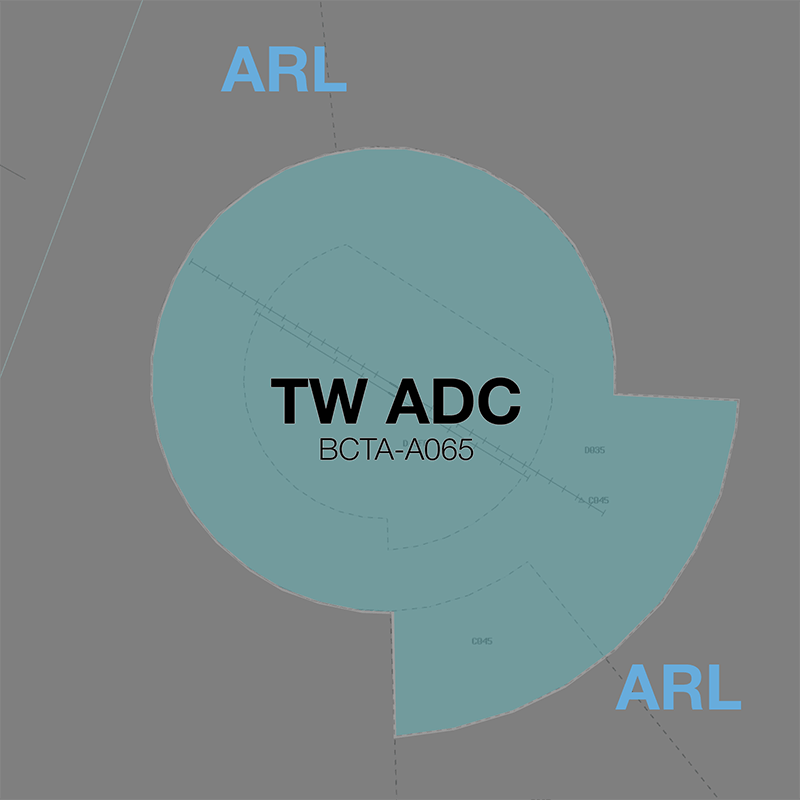
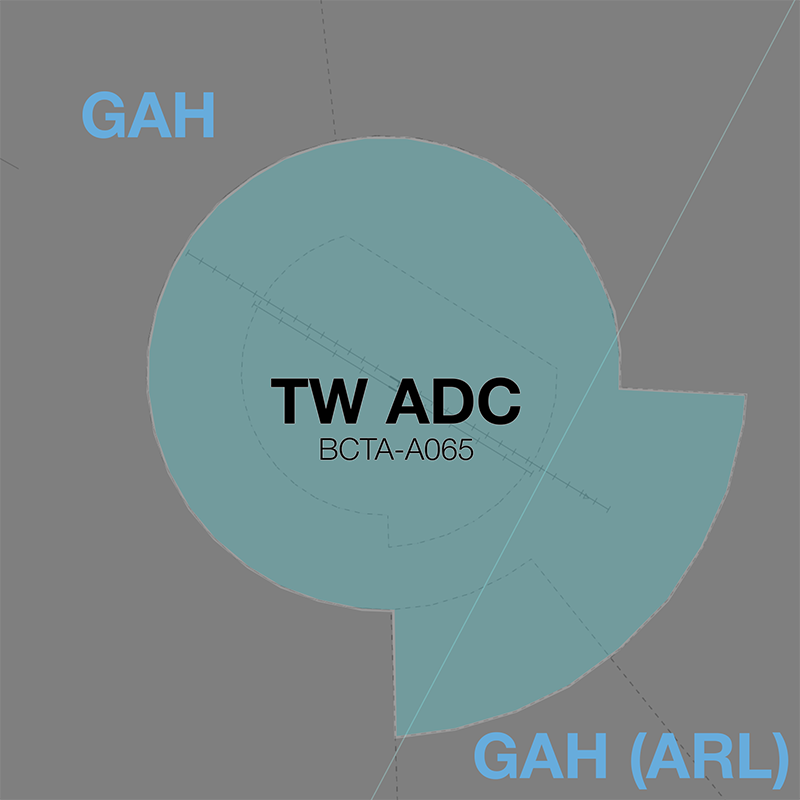
proc tower updates

diff --git a/docs/aerodromes/procedural/Tamworth.md b/docs/aerodromes/procedural/Tamworth.md
@@ -176,7 +176,7 @@ The [geographic feature separation standard](../../separation-standards/visual.m
 The **Oxley** and **New England** Highways are good references for this standard.
 
 ### Surveillance
-Surveillance coverage can be expected to be not available below `A034` in the TW CTR. Although TW ADC is **not permitted** to use surveillance for separation, ARL may assist by establishing surveillance separation standards via coordination.
+Surveillance coverage can be expected to be not available below `A034` in the TW CTR. Although TW ADC is **not permitted** to use surveillance for separation, GAH/ARL may assist by establishing surveillance separation standards via coordination.
 
 ## ATIS
 ### Runway Mode Formatting
@@ -193,25 +193,25 @@ When parallel runway operations are in use, the ATIS OPR INFO field shall includ
 
 ## Coordination
 ### Departures
-[Next](../../controller-skills/coordination.md#next) coordination is required from TW ADC to ARL for all aircraft **entering ARL CTA**.
+[Next](../../controller-skills/coordination.md#next) coordination is required from TW ADC to GAH/ARL for all aircraft **entering GAH/ARL CTA**.
 
-The Standard Assignable level from **TW ADC** to **ARL** is:
+The Standard Assignable level from **TW ADC** to **GAH/ARL** is:
 
 | Aircraft | Level |
 | ---- | ---- |
 | All | The lower of `A070` and `RFL` |
 
 ### Arrivals/Overfliers
-ARL will heads-up coordinate all arrivals/overfliers that are entering the TW CTR/CTA to TW ADC
+GAH/ARL will heads-up coordinate all arrivals/overfliers that are entering the TW CTR/CTA to TW ADC
 
 !!! phraseology
-    <span class="hotline">**ARL** -> **TW ADC**</span>: "Via MOR DCT for the VOR-A, FD272”  
-    <span class="hotline">**TW ADC** -> **ARL**</span>: "FD272, VOR-A"  
+    <span class="hotline">**GAH** -> **TW ADC**</span>: "Via MOR DCT for the VOR-A, FD272”  
+    <span class="hotline">**TW ADC** -> **GAH**</span>: "FD272, VOR-A"  
 
-The Standard Assignable level from ARL to TW ADC is `A080`, any other level must be prior coordinated.
+The Standard Assignable level from GAH/ARL to TW ADC is `A080`, any other level must be prior coordinated.
 
 #### ADC South Online
-When ADC South is online, ARL may not be familiar with which controller owns what airspace. Best practice is to receive the coordination no matter what, and if it was meant for the other ADC controller, relay the coordination to them internally.
+When ADC South is online, GAH/ARL may not be familiar with which controller owns what airspace. Best practice is to receive the coordination no matter what, and if it was meant for the other ADC controller, relay the coordination to them internally.
 
 ### TW ADC Internal
 TW ADC must heads-up coordinate **all aircraft** transiting from one ADC controller to the other.

diff --git a/docs/aerodromes/procedural/Coffs.md b/docs/aerodromes/procedural/Coffs.md
@@ -40,23 +40,23 @@ The **coastline** is a good reference for this standard. Due to high terrain clo
     **CFS ADC:** "RXA6418, cancel the offshore requirement, track for downwind runway 21, cleared visual approach"
 
 ## Surveillance
-Surveillance coverage can be expected to be not available below `A028` in the CFS CTR. Although CFS ADC is **not permitted** to use surveillance for separation, ARL(MNN) or INL may assist by establishing surveillance separation standards via coordination
+Surveillance coverage can be expected to be not available below `A028` in the CFS CTR. Although CFS ADC is **not permitted** to use surveillance for separation, MNN or INL may assist by establishing surveillance separation standards via coordination
 
 ## Coordination
 ### Departures
-[Next](../../controller-skills/coordination.md#next) coordination is required from CFS ADC to INL/ARL(MNN) for all aircraft **entering INL/ARL(MNN) CTA**.
+[Next](../../controller-skills/coordination.md#next) coordination is required from CFS ADC to INL/MNN for all aircraft **entering INL/MNN CTA**.
 
-The Standard Assignable level from **CFS ADC** to **INL/ARL(MNN)** is:
+The Standard Assignable level from **CFS ADC** to **INL/MNN** is:
 
 | Aircraft | Level |
 | ---- | ---- |
 | All | The lower of `A070` and `RFL` |
 
 ### Arrivals/Overfliers
-INL/ARL(MNN) will heads-up coordinate all arrivals/overfliers to CFS ADC.
+INL/MNN will heads-up coordinate all arrivals/overfliers to CFS ADC.
 
 !!! phraseology
     <span class="hotline">**INL** -> **CFS ADC**</span>: "Via KADSI, RXA6416”  
     <span class="hotline">**CFS ADC** -> **INL**</span>: "RXA6416"  
 
-The Standard Assignable level from INL/ARL(MNN) to CFS ADC is `A080`, any other level must be prior coordinated.
+The Standard Assignable level from INL/MNN to CFS ADC is `A080`, any other level must be prior coordinated.